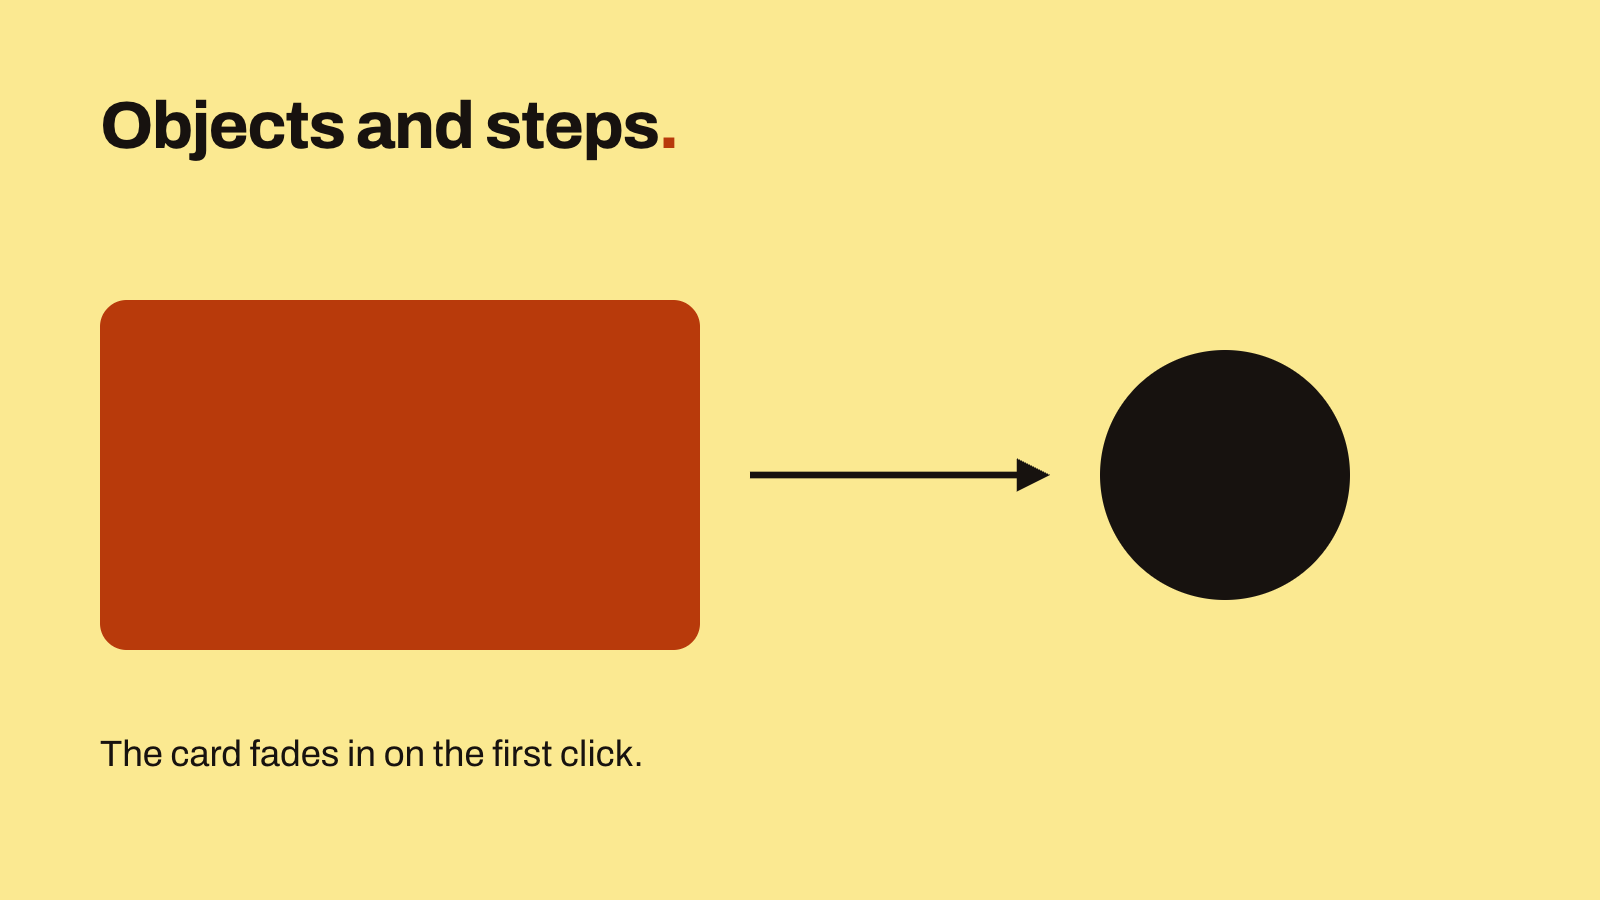
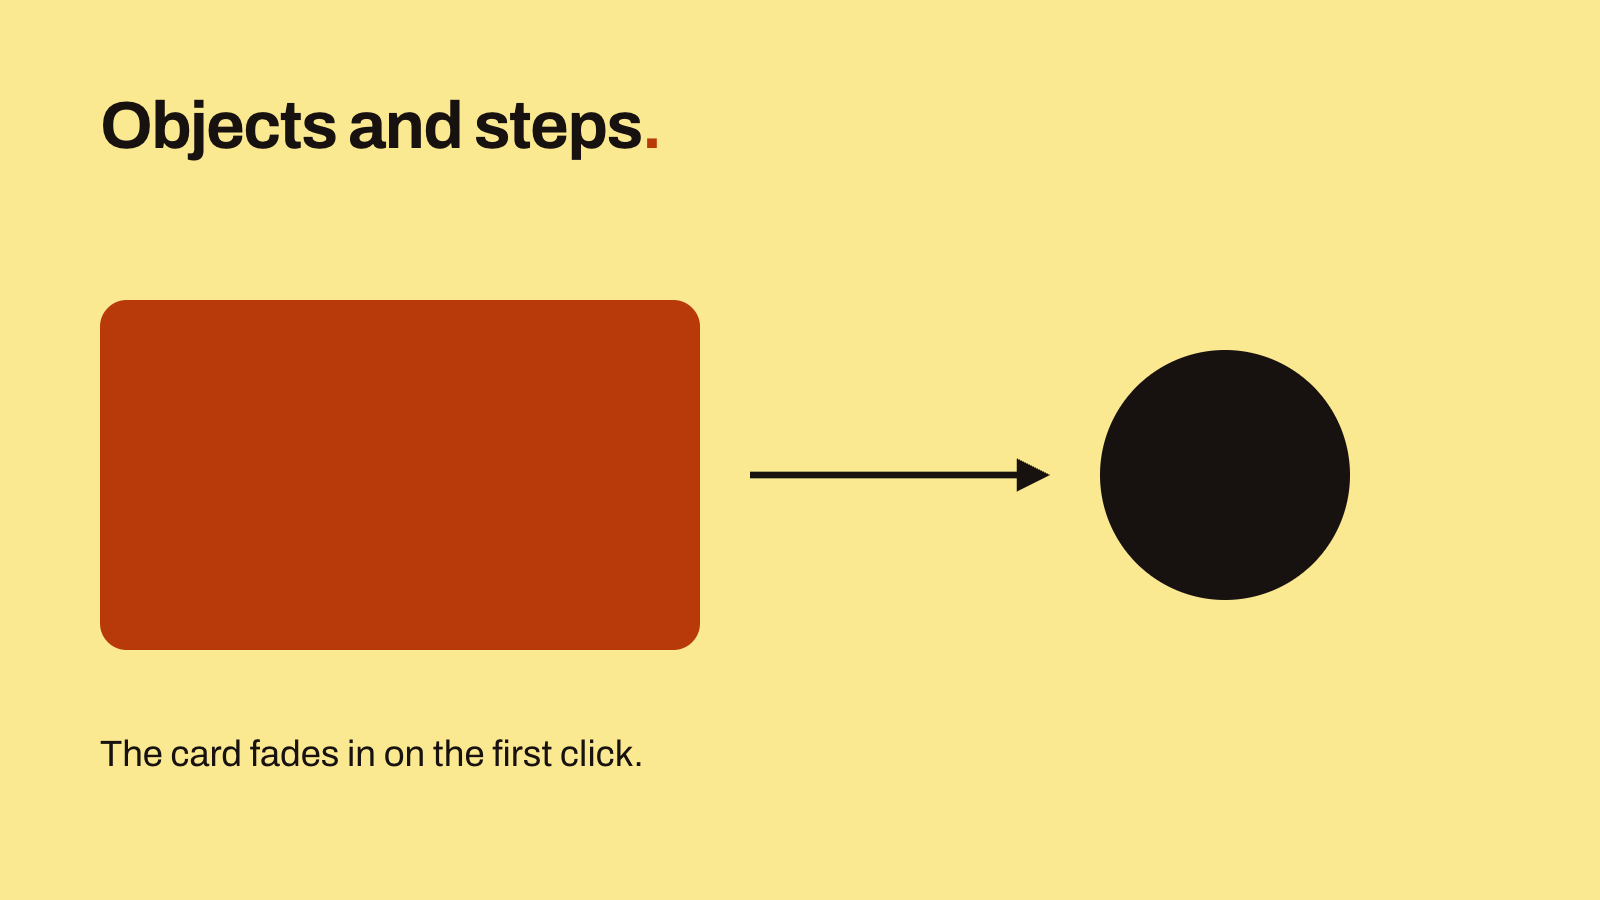
Publish from MarkdownPoint b6e124f6

Changed region(s): [[0.0625, 0.0933, 0.4375, 0.1867]]

diff --git a/reference/v1.md b/reference/v1.md
@@ -247,7 +247,7 @@ One object on a slide, a layout, or a master, by type. An override needs none of
 | `tabular` | text, shape |  |  | false | cut | design | Whether all digits have the same width, so numbers line up in columns. |
 | `kerning` | text, shape |  | metrics, none | metrics | cut | design | Whether the font's kerning sets the space between letters. |
 | `font-size` | text, table, shape, chart |  | 0.01 to 33554431.984375 canvas units | from the text style, else 32; chart: unset | yes | design | The text size, in canvas units. |
-| `font-weight` | text, table, shape, chart |  | 100 to 1000 | from the text style, else 400; chart: 700 for a counter, else 400 | yes | design | The text weight, from 100 to 1000. |
+| `font-weight` | text, table, shape, chart |  | 300, 400, 500, 600, and 700 | from the text style, else 400; chart: 700 for a counter, else 400 | yes | design | The text weight: 300 light, 400 regular, 500 medium, 600 semibold or 700 bold. |
 | `color` | text, table, image, shape, icon, chart, light, world |  |  | from the text style, else text; image: unset; light: #FFFFFF; world: unset; shape: above the text style, background or text on a fill, whichever reads better where its first line stands | yes | design | The color of the text, icon, light, or World, or the single color of an SVG image. Text, shapes, and charts can use a gradient. |
 | `align` | text, shape, chart |  | left, center, right, justify; chart: left, center, right | chart: center | cut | design | The text's horizontal alignment. Left out, the lines align to the side they start on: left, or right when `text-direction` is `rtl`. An explicit `left` stays left in right-to-left text. |
 | `text-direction` | text, shape |  | ltr, rtl | ltr |  | design | Which way every paragraph of the text runs: `ltr`, left to right, or `rtl`, right to left, as Arabic and Hebrew are written. Lists, quotes, and columns start on that side. |
@@ -1044,7 +1044,7 @@ One text style. Keys left out default to inset-top and inset-bottom 0, paragraph
 | --- | --- | --- | --- | --- |
 | `font-family` |  |  | design | The font role the text uses: display, body, or mono. The design sets a font family for each role. |
 | `font-size` |  | 0.01 to 33554431.984375 canvas units | design | The font size. |
-| `font-weight` |  | 100 to 1000 | design | The font weight, such as 400 for regular or 700 for bold. |
+| `font-weight` |  | 300, 400, 500, 600, and 700 | design | The font weight: 300 light, 400 regular, 500 medium, 600 semibold or 700 bold. |
 | `color` |  |  | design | The color: a color role or a hex color. |
 | `line-height` |  | 0 to 33554431 | design | The distance between lines, as a multiple of the font size. |
 | `tracking` |  | −33554431 to 33554431 em | design | Extra space between letters. |
@@ -1063,7 +1063,7 @@ How each inline mark looks in a text style. At `text-styles.<style name>.marks`.
 
 | key | required | values | category | description |
 | --- | --- | --- | --- | --- |
-| `bold` |  |  | design | How bold text looks. Left out, it's the text's font at weight 600. |
+| `bold` |  |  | design | How bold text looks. Bold is always weight 700, an italic, a highlight or a strikethrough inside it too, so it takes no font-weight; left out, it's the text's font. |
 | `italic` |  |  | design | How italic text looks. |
 | `highlight` |  |  | design | How highlighted text looks: colored, on no background. By default it's the accent color at weight 600, never lighter than the text around it. |
 | `strikethrough` |  |  | design | How struck-through text looks. |
@@ -1076,7 +1076,7 @@ How one inline mark looks. At `text-styles.<style name>.marks.<mark>`.
 | key | required | values | category | description |
 | --- | --- | --- | --- | --- |
 | `font-family` |  |  | design | The font role the text uses: display, body, or mono. The design sets a font family for each role. |
-| `font-weight` |  | 100 to 1000 | design | The font weight. |
+| `font-weight` |  | 300, 400, 500, 600, and 700 | design | The font weight. |
 | `color` |  |  | design | The color: a color role or a hex color. |
 | `tracking` |  | −33554431 to 33554431 em | design | Extra space between letters. |
 | `case` |  | none, upper, lower, title | design | The letter case shown, while the text stays as typed. `title` capitalizes the first letter of each word. |

diff --git a/designs.md b/designs.md
@@ -44,7 +44,7 @@ A text object gets its type settings from one of the design's text styles. A des
 {
   "font-family": "display",
   "font-size": 80,
-  "font-weight": 760,
+  "font-weight": 700,
   "line-height": 1.05,
   "tracking": -0.025,
   "color": "text"
